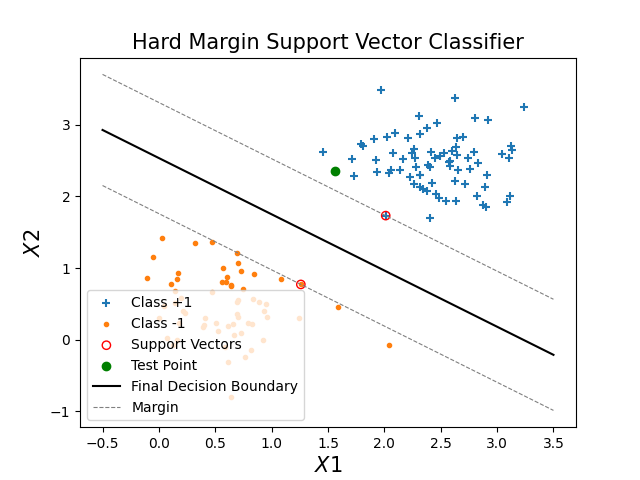
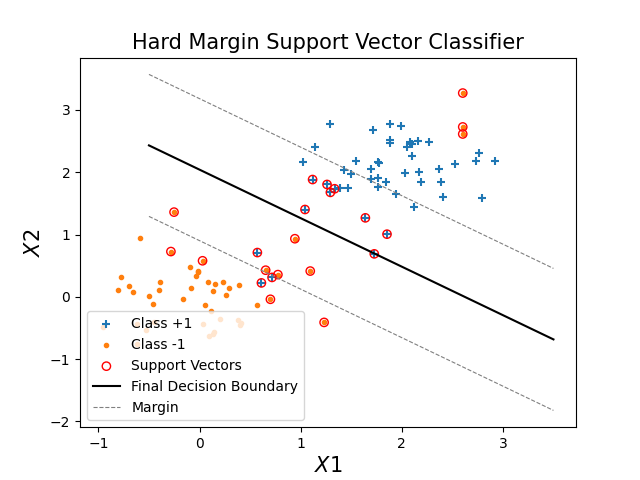
Start of Soft SVM, Working but not yet completely correct

diff --git a/support-vector-machines/soft-margin-svm-qp.py b/support-vector-machines/soft-margin-svm-qp.py
@@ -1,0 +1,171 @@
+# Here we explore implementation of Soft Margin Support Vector Classifier
+# from scratch
+
+# import required libraries
+import numpy as np
+import pandas as pd
+import matplotlib.pyplot as plt
+
+# load dataset
+dataset = pd.read_csv('svm-soft-margin-dataset.csv')
+# print(dataset.sample(5))
+
+# plot for visualization
+# plt.scatter(dataset['x1'],dataset['x2'])
+# plt.show()
+
+# separate based on class
+pos_class = dataset[dataset['y']==1]
+neg_class = dataset[dataset['y']==-1]
+
+# plot for visualization of different classes
+# plt.scatter(pos_class['x1'],pos_class['x2'],marker='+')
+# plt.scatter(neg_class['x1'],neg_class['x2'],marker='.')
+# plt.show()
+
+# extract input and output features into numpy arrays
+X = np.array(dataset.drop('y',axis=1))
+Y = np.array(dataset.drop(['x1','x2'],axis=1))
+
+# print(X)
+# print(Y)
+
+# now implement the minimization of dual objective function
+
+# the dual objective function looks something like this
+# Ld = sum_over_i(aplha_i) - 0.5 * sum_over_i,j(aplha_i*alpha_j*y_i*y_j*<x_i,x_j>)
+
+# now we need to solve for -
+# max_out_of_all_alpha_i>=0(Ld)
+# subject to constraints
+# 1. 0 < all alpha_i < C
+# 2. sum_over_i(alpha_i*y_i) = 0
+
+# solve using Quadratic Programming and the library cvxopt
+
+# import the library
+from cvxopt import matrix,solvers
+
+# define regularization term
+C = 5
+
+# compute different parts of the dual
+
+# gram matrix - <x_i,x_j>
+x_dot_prod_matrix = np.dot(X,X.T)
+# print(x_dot_prod_matrix)
+
+# y_i * y_j
+y_dot_product_matrix = np.dot(Y,Y.T)
+# print(y_dot_product_matrix)
+
+# y_i*y_j*<x_i,x_j>
+YX = matrix(x_dot_prod_matrix * y_dot_product_matrix)
+# print(YX)
+
+# to incorporate minus sign
+minus = matrix(-1 * np.ones((X.shape[0],1)))
+# print(minus)
+
+# define constraints
+
+# 1. 0 < all alpha_i < C
+
+# c1_p1 = matrix(-1 * np.eye(X.shape[0]))
+# c1_p2 = matrix(C * np.ones((X.shape[0],1))) # this sets only upper bound
+
+# to set both upper and lower bounds
+# stack the matrices
+c1_p1 = matrix(np.vstack((
+    -1 * np.eye(X.shape[0]),
+    np.eye(X.shape[0])
+    )))
+c1_p2 = matrix(np.vstack((
+    np.zeros((X.shape[0], 1)),
+    C * np.ones((X.shape[0], 1))
+    )))
+# print(c1_p1)
+# print(c1_p2)
+
+# 2. sum_over_i(alpha_i*y_i) = 0
+c2_p1 = matrix(Y.reshape(1,-1).astype('double'))
+c2_p2 = matrix(np.zeros((1,1)))
+# print(c2_p1)
+# print(c2_p2)
+
+# solve the dual
+solution = solvers.qp(YX,minus,c1_p1,c1_p2,c2_p1,c2_p2)
+
+# fetch the alphas
+alphas = np.array(solution['x'])
+# print(alphas)
+
+# extract support vectors - alphas >=0
+# sv_alphas = alphas[(alphas > 1e-5).flatten()]
+# print((alphas > 1e-5).flatten())
+
+sv_alphas_index = np.where(((alphas > 1e-5)&(alphas< C)).flatten())
+# print(sv_alphas_index)
+# print()
+print(alphas[sv_alphas_index])
+
+# extract X and Y of support vectors
+X_sv = X[sv_alphas_index]
+Y_sv = Y[sv_alphas_index]
+# print()
+# print(X_sv)
+# print(Y_sv)
+
+# plot these points along with the dataset to visualize
+# dataset
+plt.scatter(pos_class['x1'],pos_class['x2'],marker='+',label='Class +1')
+plt.scatter(neg_class['x1'],neg_class['x2'],marker='.',label='Class -1')
+# support vectors
+plt.scatter(X_sv[:,0],X_sv[:,1],facecolors='none', edgecolors='red', label='Support Vectors')
+# plt.show()
+
+# calculate the weights matrix
+w = np.sum(alphas[sv_alphas_index] * X_sv * Y_sv, axis=0)
+# print()
+# print(w)
+
+
+# calculate bias term
+
+# wkt for the support vectors
+# y(w.T*x + b) = 1
+# so
+# b = (1/y) - w.T*x
+# calculate this for all support vectors and take average
+bias = 0
+for i in range(len(sv_alphas_index[0])):
+    # print(X_sv[i])
+    # print(Y_sv[i])
+    bias = bias + (1/Y_sv[i][0]) - np.dot(w,X_sv[i])
+    # print(bias)
+
+bias = bias / len(sv_alphas_index[0])
+print(bias)
+
+
+# form the discriminant function(decision boundary)
+x1 = np.linspace(-0.5,3.5,50)
+x2 = np.linspace(-1,4,50)
+
+x2 = -(bias + (w[0]*x1)) / w[1]
+# margins for plotting reference
+margin_1 = (1 -(bias + (w[0]*x1))) / w[1]
+margin_2 = (-1 -(bias + (w[0]*x1))) / w[1]
+
+# plot the decision boundary
+plt.plot(x1,x2,label='Final Decision Boundary',color='black')
+
+# plot the margins
+plt.plot(x1,margin_1,label='Margin',color='grey',linestyle='--',linewidth=0.8)
+plt.plot(x1,margin_2,color='grey',linestyle='--',linewidth=0.8)
+plt.xlabel('$X1$',fontsize=15)
+plt.ylabel('$X2$',fontsize=15)
+plt.title('Hard Margin Support Vector Classifier',fontsize=15)
+plt.legend()
+plt.savefig('hardmargin-decision-boundary.png')
+plt.show()

diff --git a/support-vector-machines/data-generation-for-soft-svm.py b/support-vector-machines/data-generation-for-soft-svm.py
@@ -1,0 +1,45 @@
+import numpy as np
+import pandas as pd
+import matplotlib.pyplot as plt
+
+# Set seed for reproducibility
+np.random.seed(42)
+
+# Generate 50 points for class +1
+x1_pos = np.random.normal(loc=2, scale=0.5, size=50)
+x2_pos = np.random.normal(loc=2, scale=0.5, size=50)
+y_pos = np.ones(50)
+
+# Generate 50 points for class -1
+x1_neg = np.random.normal(loc=0, scale=0.5, size=50)
+x2_neg = np.random.normal(loc=0, scale=0.5, size=50)
+y_neg = -1 * np.ones(50)
+
+# Inject a few misclassified points (noise)
+x1_pos[:3] = np.random.normal(loc=0.5, scale=0.2, size=3)
+x2_pos[:3] = np.random.normal(loc=0.5, scale=0.2, size=3)
+
+x1_neg[:3] = np.random.normal(loc=2.5, scale=0.2, size=3)
+x2_neg[:3] = np.random.normal(loc=2.5, scale=0.2, size=3)
+
+# Combine
+x1 = np.concatenate((x1_pos, x1_neg))
+x2 = np.concatenate((x2_pos, x2_neg))
+y = np.concatenate((y_pos, y_neg))
+
+# Build DataFrame
+data = pd.DataFrame({'x1': x1, 'x2': x2, 'y': y})
+data = data.round(3)
+
+# Save to CSV
+data.to_csv('svm-soft-margin-dataset.csv', index=False)
+
+# Plot
+plt.scatter(data[data['y'] == 1]['x1'], data[data['y'] == 1]['x2'], marker='+', label='Class +1')
+plt.scatter(data[data['y'] == -1]['x1'], data[data['y'] == -1]['x2'], marker='o', label='Class -1')
+plt.xlabel('$x_1$')
+plt.ylabel('$x_2$')
+plt.title('Noisy Data for Soft Margin SVM')
+plt.legend()
+plt.grid(True)
+plt.show()
